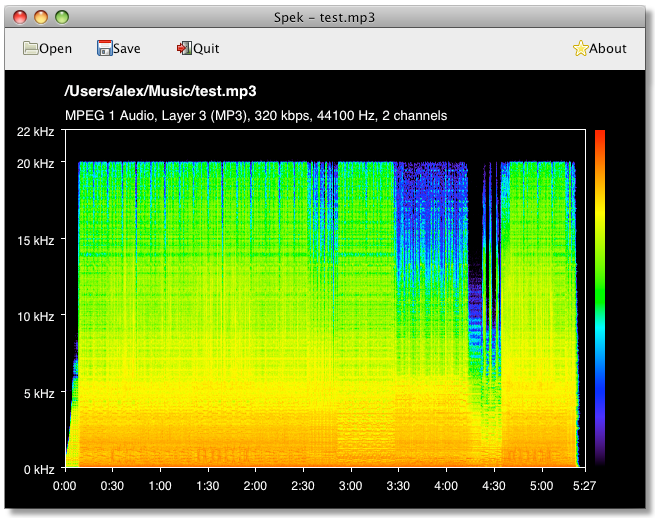
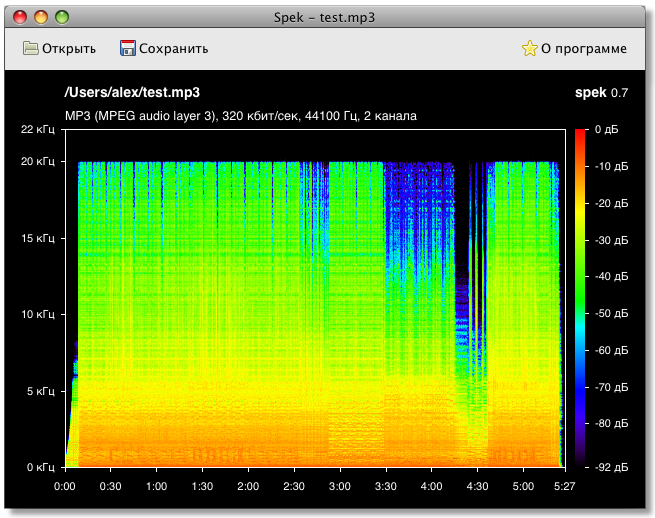
web: Update sshots

diff --git a/web/index.html b/web/index.html
@@ -39,7 +39,7 @@
       <tr>
         <td><a href="flac.png"><img src="flac-small.png" width="240" height="192" alt="Spek running under Ubuntu Linux" title="Spek running under Ubuntu Linux and showing the spectrogram of a FLAC file."/></a></td>
         <td><a href="win7.png"><img src="win7-small.png" width="240" height="192" alt="Spek running under Windows 7" title="Spek running under Windows 7 and showing the same sound track encoded as a 320kbps MP3."/></a></td>
-        <td><a href="osx.png"><img src="osx-small.png" width="240" height="192" alt="Spek running under Mac OS X" title="Spek running under Mac OS X Leopard."/></a></td>
+        <td><a href="osx.png"><img src="osx-small.png" width="240" height="192" alt="Spek running under Mac OS X" title="Russian-speaking version of Spek running under Mac OS X Leopard."/></a></td>
       </tr>
     </table>
 
